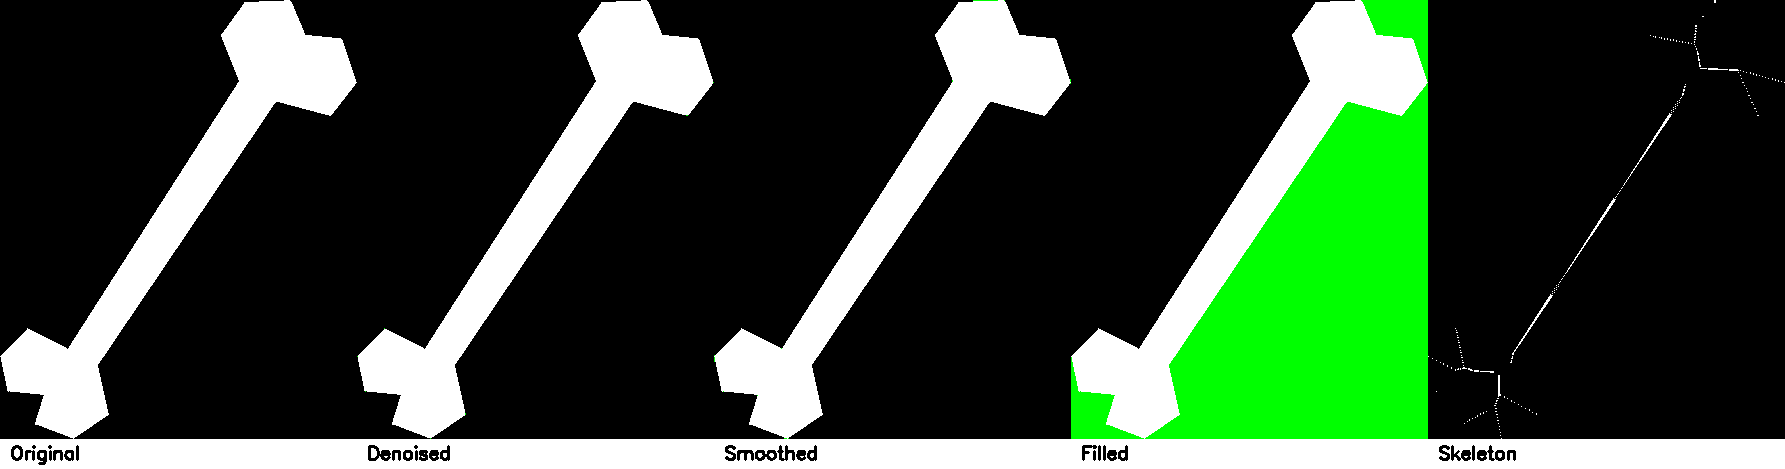
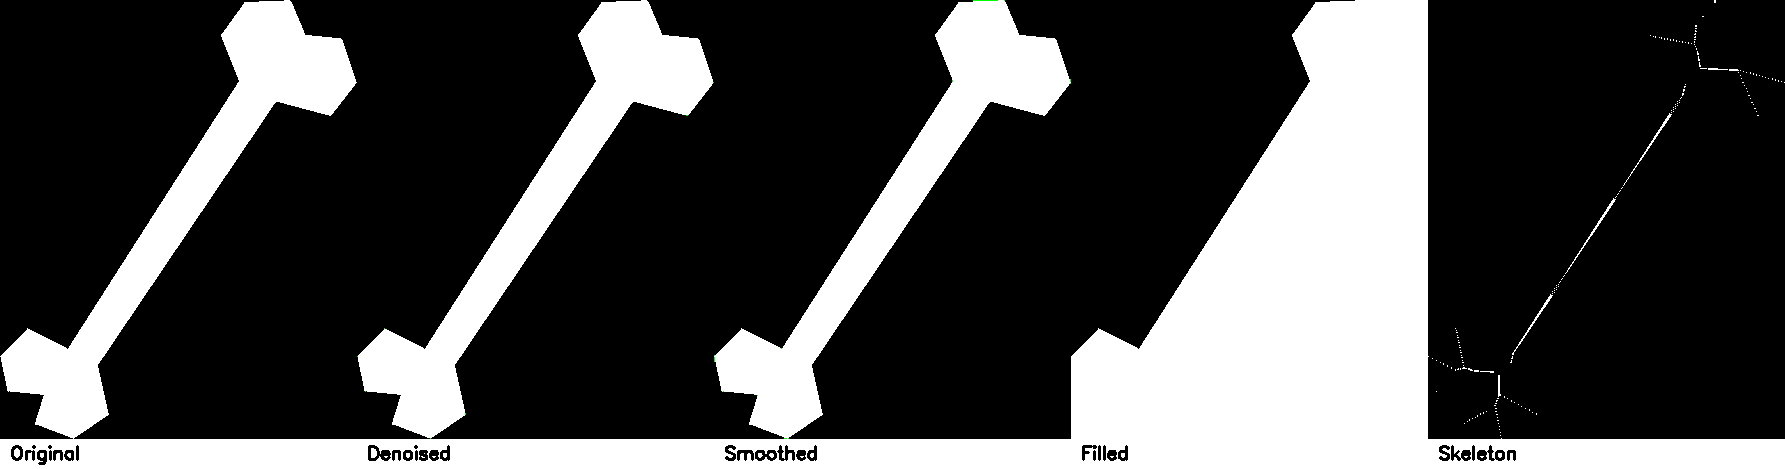
Cambios en la grafica de morfología

Changed region(s): [[0.5854, 0.1791, 0.8011, 0.9552], [0.7395, 0.0, 0.8011, 0.1493]]

diff --git a/MorphologyHelper.py b/MorphologyHelper.py
@@ -43,7 +43,7 @@ def process_image(filepath, kernel):
     # Highlight differences in blue
     highlighted_denoised = highlight_changes(original_bgr, denoised)
     highlighted_smoothed = highlight_changes(original_bgr, smoothed)
-    highlighted_filled = highlight_changes(original_bgr, filled)
+    highlighted_filled = cv2.cvtColor(filled, cv2.COLOR_GRAY2BGR)
     highlighted_skeleton = cv2.cvtColor(skeleton, cv2.COLOR_GRAY2BGR)  # Convert to 3-channel grayscale, lo mantiene igual pero lo cambia a triple canal
 
     return binary_image, highlighted_denoised, highlighted_smoothed, highlighted_filled, highlighted_skeleton
